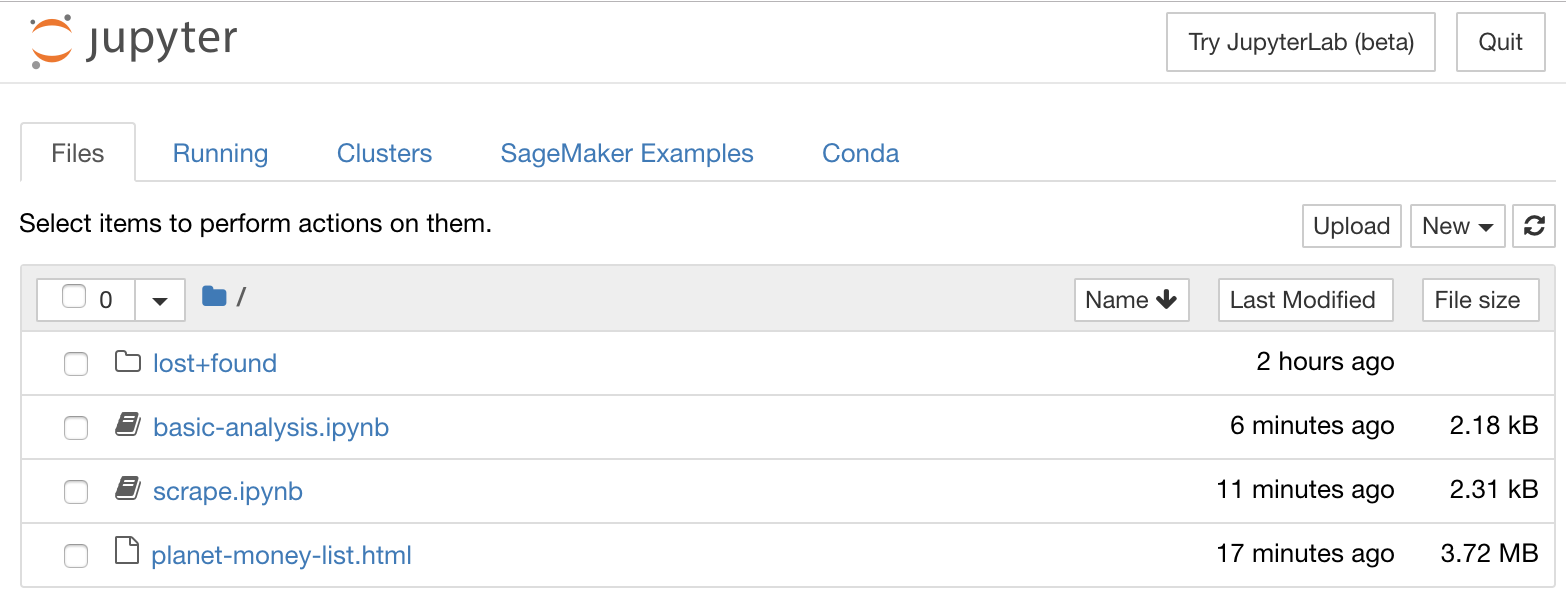
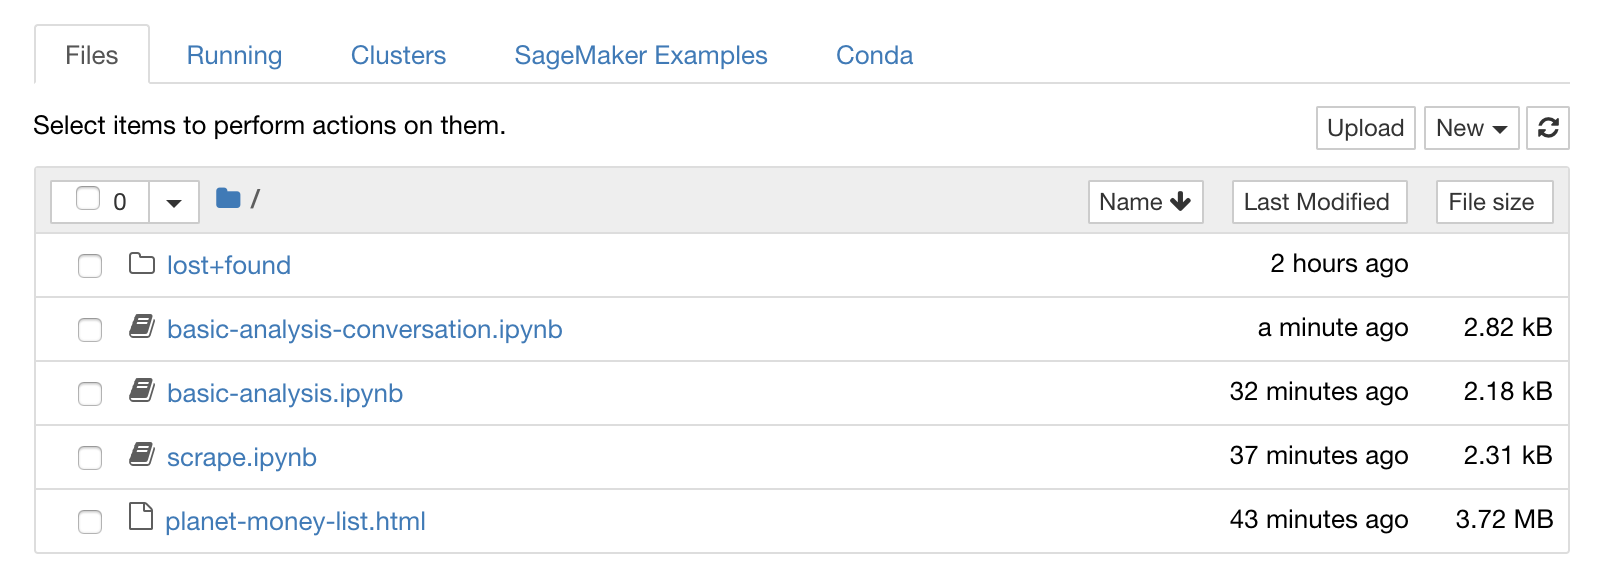
Added conversational code

diff --git a/README.md b/README.md
@@ -2,6 +2,12 @@
 
 trained text-generating neural network that generates episodes of [Planet Money](https://www.npr.org/sections/money/)
 
+```txt
+KESTENBAUM: That is a count to Norway. Thee resorves of the oil curse. The problem is the oil curse. The problem is the oil curse. The problem is the oil curse. The problem is the oil curse. The problem is the wort of the oil curse. So the were on the oil curse. The problem is the resorves in the
+
+SMITH: Yee. And it's to the recesterent of the recountry that was a lot of the oil curse. The problem is the oil curse. The problem with the oil curse. The problem is the oil curse. The problem is the oil curse. The problem is the oil curse. The problem is the oil curse. The problem is the oil cur
+```
+
 ## CloudFormation
 
 ### SageMaker
@@ -57,3 +63,4 @@ Upload the contents of `notebooks/` to your SageMaker root directory.
 
 * `scrape.ipynb` - scrape the episode transcripts
 * `basic-analysis.ipynb` - train your own text-generating neural network (uses [textgenrnn](https://github.com/minimaxir/textgenrnn))
+* `basic-analysis-conversation.ipynb` - train and output a conversation log between reporters
